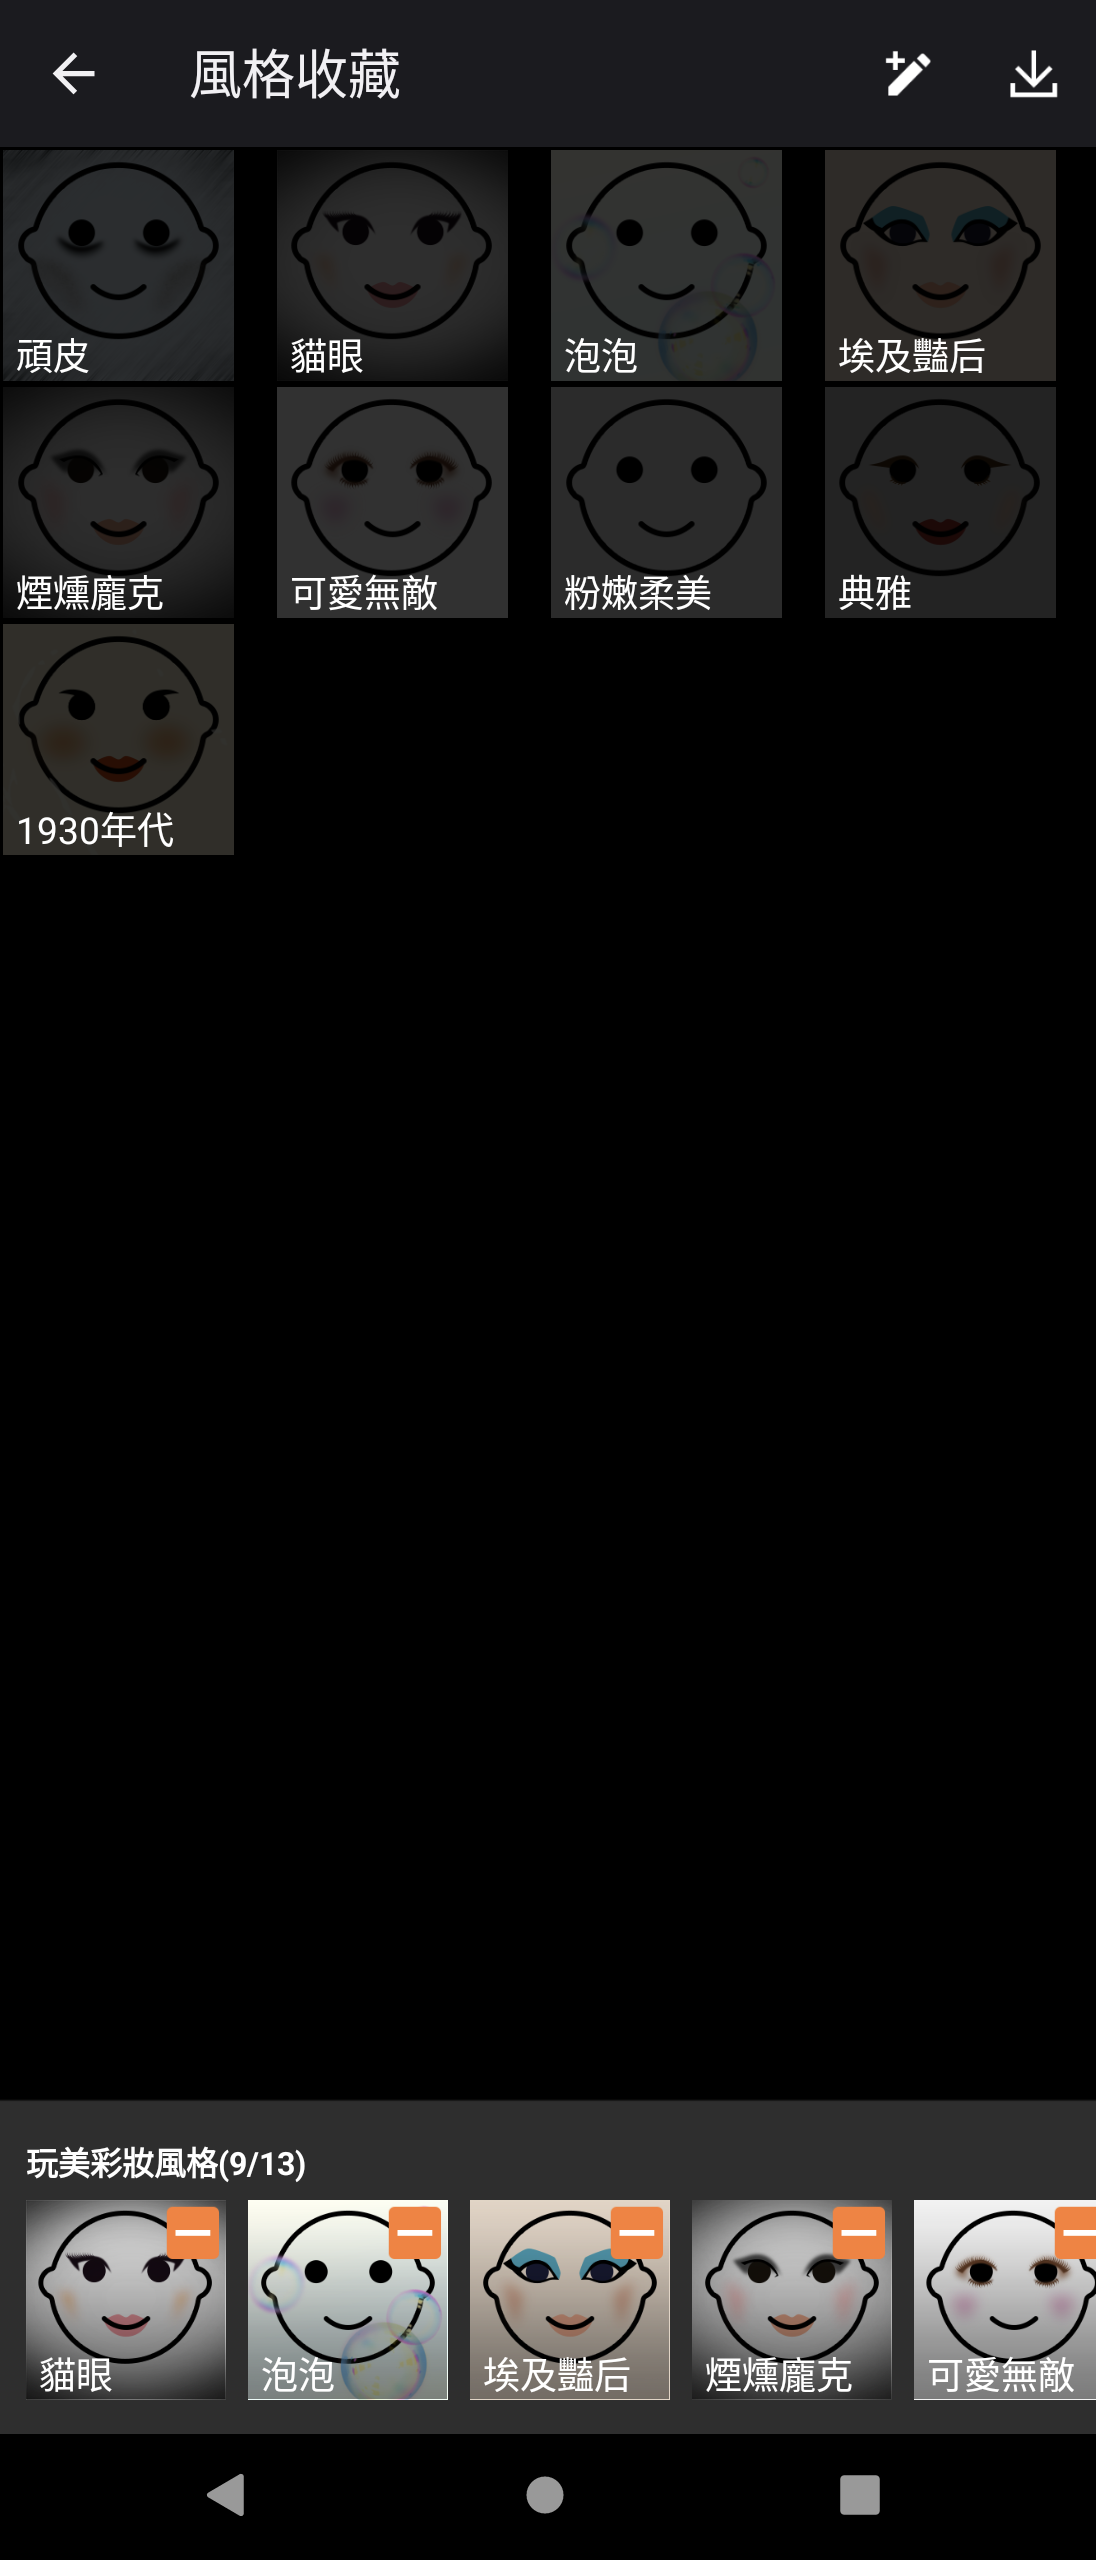
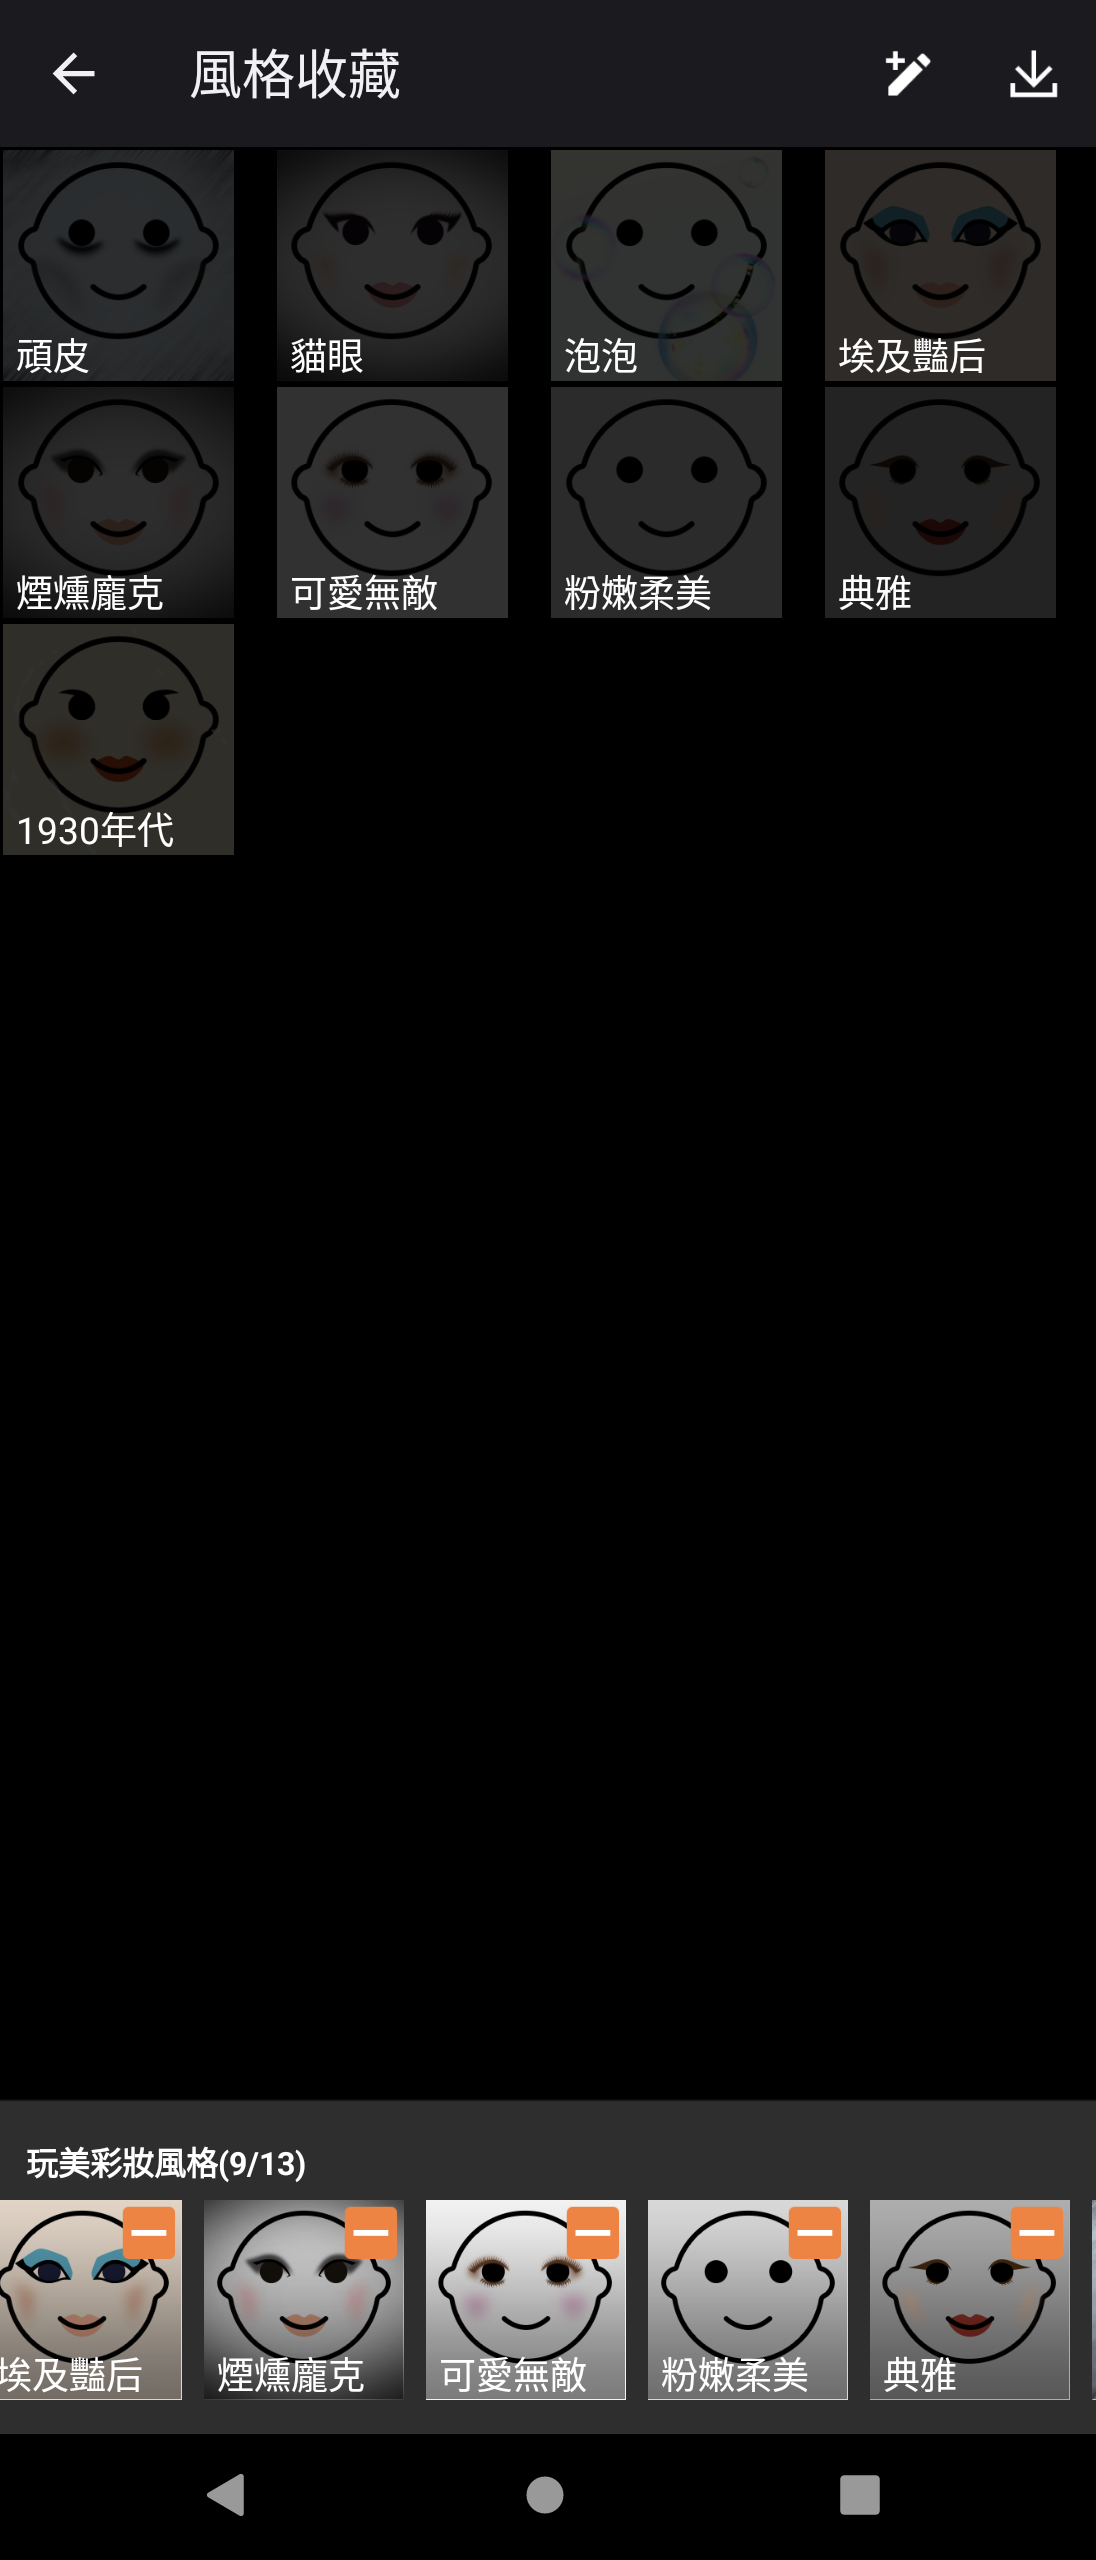
Replace 1930s host with clean ZIP v4

Changed region(s): [[0.0, 0.8438, 1.0, 0.9375]]

diff --git a/apps/1930s-1.0.1/tools/rebuild_zip_with_replacement.py b/apps/1930s-1.0.1/tools/rebuild_zip_with_replacement.py
@@ -1,0 +1,70 @@
+#!/usr/bin/env python3
+"""Rebuild a clean ZIP/APK while replacing one entry and dropping signatures."""
+
+from __future__ import annotations
+
+import argparse
+import copy
+import zipfile
+from pathlib import Path
+
+
+def main() -> None:
+    parser = argparse.ArgumentParser()
+    parser.add_argument("input", type=Path)
+    parser.add_argument("output", type=Path)
+    parser.add_argument("--replace", required=True, help="Archive entry to replace")
+    parser.add_argument("--with-file", type=Path, required=True)
+    parser.add_argument(
+        "--drop-prefix",
+        action="append",
+        default=["META-INF/"],
+        help="Archive entry prefix to omit; may be repeated",
+    )
+    args = parser.parse_args()
+
+    if args.input.resolve() == args.output.resolve():
+        raise SystemExit("Refusing to rebuild in place")
+    if args.output.exists():
+        raise SystemExit(f"Refusing to overwrite existing output: {args.output}")
+
+    replacement = args.with_file.read_bytes()
+    replaced = 0
+    seen: set[str] = set()
+    args.output.parent.mkdir(parents=True, exist_ok=True)
+
+    with zipfile.ZipFile(args.input) as source, zipfile.ZipFile(
+        args.output, "w", allowZip64=True
+    ) as destination:
+        for source_info in source.infolist():
+            name = source_info.filename
+            if any(name.upper().startswith(prefix.upper()) for prefix in args.drop_prefix):
+                continue
+            if name in seen:
+                raise SystemExit(f"Duplicate input entry: {name}")
+            seen.add(name)
+
+            info = copy.copy(source_info)
+            info.extra = b""
+            info.comment = b""
+            info.flag_bits = 0
+            data = replacement if name == args.replace else source.read(source_info)
+            if name == args.replace:
+                replaced += 1
+            destination.writestr(info, data, compress_type=source_info.compress_type)
+
+    if replaced != 1:
+        args.output.unlink(missing_ok=True)
+        raise SystemExit(f"Expected one {args.replace} entry, replaced {replaced}")
+
+    with zipfile.ZipFile(args.output) as result:
+        bad_crc = result.testzip()
+        if bad_crc is not None:
+            raise SystemExit(f"CRC verification failed for {bad_crc}")
+        if any(info.extra for info in result.infolist()):
+            raise SystemExit("Unexpected extra field in clean archive")
+        print(f"rebuilt {len(result.infolist())} clean entries: {args.output}")
+
+
+if __name__ == "__main__":
+    main()

diff --git a/apps/1930s-1.0.1/evidence/records/publication-privacy-review.md b/apps/1930s-1.0.1/evidence/records/publication-privacy-review.md
@@ -7,9 +7,16 @@
   chrome and Style portrait's built-in collection artwork/text. No account,
   notification content, contact, message, location, network name, filename,
   personal photo, serial, or device identifier is visible.
-- Screenshot metadata: retained only safe PNG structure and a generic Google/Skia
-  display color profile. Pixel SHA-256 values matched before and after metadata
-  normalization.
+- Screenshot metadata: inspection found only safe PNG structure and a generic
+  Google/Skia display color profile, so no metadata removal was required. Decoded
+  pixel hashes were recorded independently from whole-file hashes.
+- Exact v4 public screenshot file SHA-256 values are
[1 lines of base64/hex data omitted]
+  (removed state) and
[1 lines of base64/hex data omitted]
+  (restored state). Decoded-pixel SHA-256 values are respectively
[2 lines of base64/hex data omitted]
 - Text and records: public copies omit ADB serials, owner names, private paths,
   credentials, host addresses, and private App Store/NAS locations.
 - Tools: contain no key, certificate private material, password, token, cookie, or
@@ -20,9 +27,9 @@
   represented as an independent privacy-specialist opinion.
 - Residual risk: public device model/OS and app version are intentional research
   facts; the screenshots retain OEM application artwork owned by Sony.
-- Automated staged-tree scan: 41 files and 1,613,946 bytes inventoried. Gitleaks
+- Automated staged-tree scan: 42 files and 1,624,631 bytes inventoried. Gitleaks
   scanned all reachable commits and reported no leaks.
-- Scanner review items: six email matches all resolve to the repository owner's
+- Scanner review items: eight email matches all resolve to the repository owner's
   intentionally public GitHub-generated `users.noreply.github.com` commit identity
   in existing history/documentation. They are neither a private mailbox nor an
   authentication secret and are retained as normal public authorship metadata.

diff --git a/apps/1930s-1.0.1/evidence/records/reproducible-build.md b/apps/1930s-1.0.1/evidence/records/reproducible-build.md
@@ -10,8 +10,11 @@ The public `scripts/build-and-sign.sh` was executed on 2026-07-19 with:
 - A disposable output directory and the same local test signer used by the exact
   device-tested artifacts
 
-Both outputs passed `apksigner verify` with v2/v3 signatures. Comparison by ZIP
-entry name and uncompressed-entry SHA-256, excluding signature metadata, showed:
+Both outputs passed `apksigner verify` with v2/v3 signatures, `unzip -t`,
+CRC verification and `zipalign -c -p 4`. The host is rebuilt entry by entry
+from the exact Sony input, with signature entries removed and all malformed or
+signer-generated local/central ZIP extra fields cleared. Comparison by ZIP entry
+name and uncompressed-entry SHA-256, excluding signature metadata, showed:
 
 | Artifact | Public rebuild entries | Exact tested entries | Added | Removed | Changed |
 | --- | ---: | ---: | ---: | ---: | ---: |
@@ -28,3 +31,9 @@ The public rebuild's whole-file hashes differ from the exact tested APK hashes
 because ZIP metadata and APK signing are not bit-for-bit reproducible across
 build times. Logical payload equality proves the public procedure reconstructs
 the tested patch, not the user's private signing identity.
+
+An earlier v3 host used in-place `zip -d` / `zip` replacement. It remained
+installable on Android but failed Stage 9 independent restore validation because
+`unzip -t` found a malformed extra-field length on
+`lib/armeabi-v7a/libDefocus.so`. That candidate is rejected. The exact v4 host
+documented here uses the clean rebuild path and passed the independent ZIP gate.

diff --git a/apps/1930s-1.0.1/README.md b/apps/1930s-1.0.1/README.md
@@ -64,6 +64,9 @@ portrait `30.0.A.0.1`。
 - 直接改成 resizable 雖填滿畫面，collection 內容卻變黑，故已淘汰。
 - 最終方案保持 non-resizable，只將 binary manifest 的該 attribute slot
   精準改寫為 `android:maxAspectRatio="3.0"`。
+- v3 雖可安裝與執行，但 Stage 9 還原驗證發現其 ZIP extra field 結構損壞，
+  因此已拒絕並淘汰。v4 改由原始 APK 逐 entry 乾淨重建，清除所有 local 與
+  central extra fields；`unzip -t`、CRC、zipalign 與簽章驗證均通過。
 - 最終 host 除 `AndroidManifest.xml` 外，1,899 個非簽章 logical entries
   均與修補前基底一致。
 
@@ -128,11 +131,13 @@ script 的逐 entry 重建驗證見
[6 lines of base64/hex data omitted]
 
-最終 APK 驗證為 v2/v3 簽章有效。公開 build script 重現已測的邏輯修補；ZIP
-時間戳、apktool 版本及使用者簽章不同時，輸出整檔 SHA-256 預期會不同。
+最終 APK 驗證為 v2/v3 簽章有效，且通過 `unzip -t`、CRC 與
+`zipalign -c -p 4`。公開 build script 以乾淨 ZIP 重建方式重現已測的邏輯
+修補；ZIP 時間戳、apktool 版本及使用者簽章不同時，輸出整檔 SHA-256 預期
+會不同。
 
 ## Installation and rollback
 

diff --git a/apps/1930s-1.0.1/evidence/records/technical-test-summary.md b/apps/1930s-1.0.1/evidence/records/technical-test-summary.md
@@ -2,7 +2,7 @@
 
 - Decision: `accepted_sony_only`
[3 lines of base64/hex data omitted]
 - Sony: Android 13/API 33; ordinary install and runtime; Root/Magisk not used.
 - Genuine host: Style portrait collection manager `30.0.A.0.1`.
 - Visual: host root 1096 x 2434; no compatibility bottom band, clipping, overlap,
@@ -10,7 +10,7 @@
 - Action: remove `1930年代` from favorites `(9/13 -> 8/13)`, then restore it
   by selecting the collection tile `(8/13 -> 9/13)`.
 - Lifecycle: Home/resume, back/reopen and force-stop/cold-reopen retained state.
-- Startup: latest measured clean-log cold launch 235 ms; resumed and stable.
+- Startup: latest measured clean-log cold launch 236 ms; resumed and stable.
 - Logs: no attributable fatal exception, ANR, verification, linkage, resource,
   security, or native crash.
 - Orientation: actual display rotation remained 0 even under a landscape request;
@@ -21,3 +21,6 @@
   pulled and matched its expected SHA-256.
 - HTC: exact add-on installed and pull-back hash matched; runtime failed because
   HTC lacks the genuine Style portrait host. Root was not used and cleanup passed.
+- Packaging: v4 passed `unzip -t`, CRC, zipalign and v2/v3 signature checks.
+  Rejected v3 failed independent restore testing due to a malformed ZIP extra
+  field and is not a final candidate.